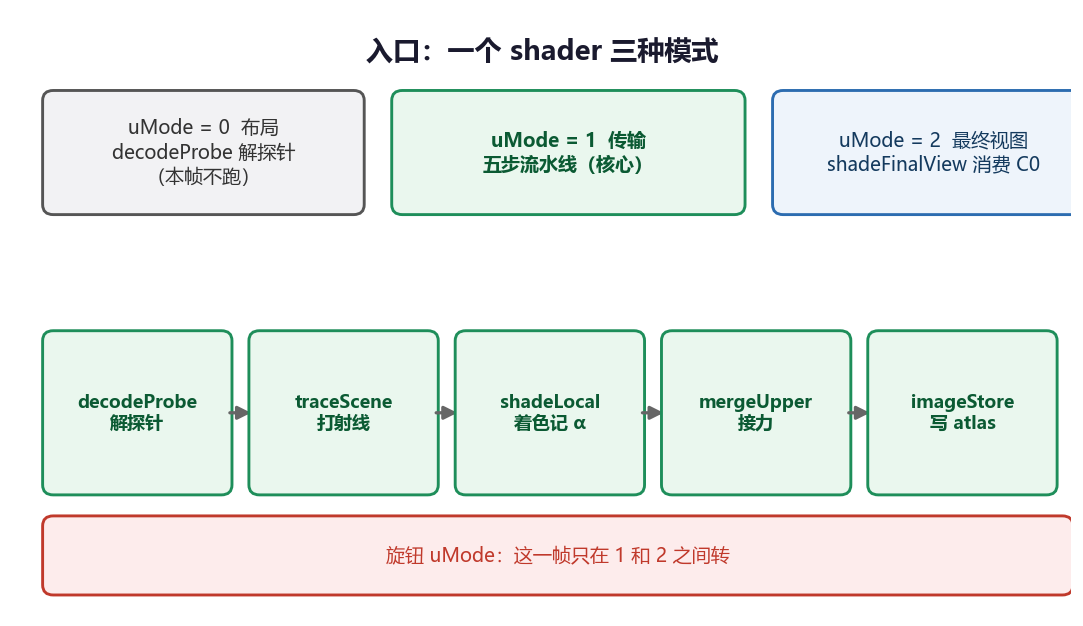
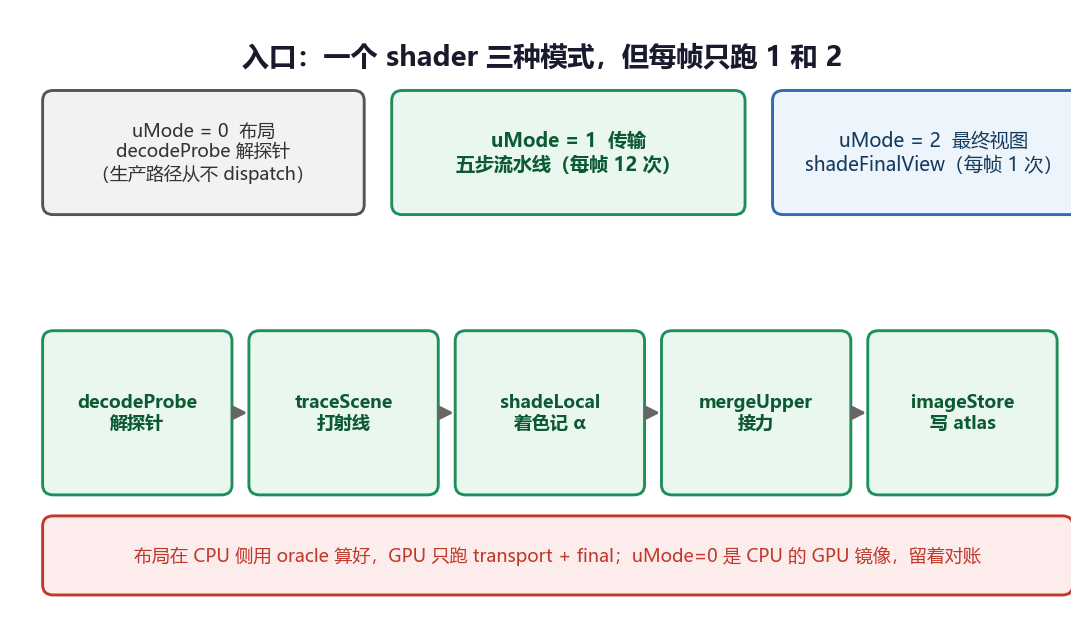
docs: clarify uMode dispatch timing (0 never runs in production, 1+2 per frame)

diff --git a/docs/renderdoc-mcp-live-proof-zhihu/article.md b/docs/renderdoc-mcp-live-proof-zhihu/article.md
@@ -498,7 +498,7 @@ shader 打射线读的场景，全在这个 2368 字节的 SSBO 里。`export_bu
 
 ### 枝 1：入口 main()——一个 shader 三种模式
 
-流水线的外壳。`main()` 靠 `uMode` 分三路：0 布局、1 传输、2 最终视图。这一帧旋钮只在 1 和 2 之间转。
+流水线的外壳。`main()` 靠 `uMode` 分三路：0 布局、1 传输、2 最终视图。**每帧真正跑的只有 1 和 2**——1 是 C5→C0 那 12 次传输，2 是最后一次最终视图。0 在生产路径里从不 dispatch：布局（探针位置/方向/权重）在 CPU 侧用 oracle 算好，shader 里的 `uMode=0` 是它的 GPU 镜像，留着和 CPU 做 bit-identical 对账。
 
 **是什么**：一个 shader 是三台机器，`uMode` 是旋钮。**不是什么**：不是三个 shader 各管一段。
 
